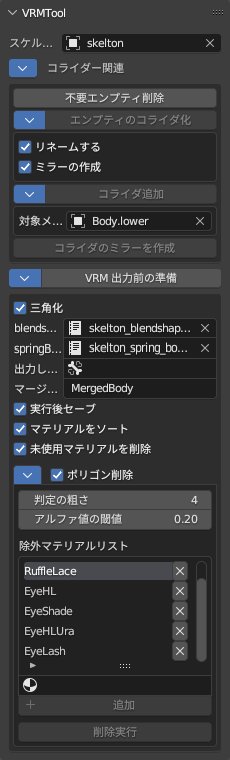
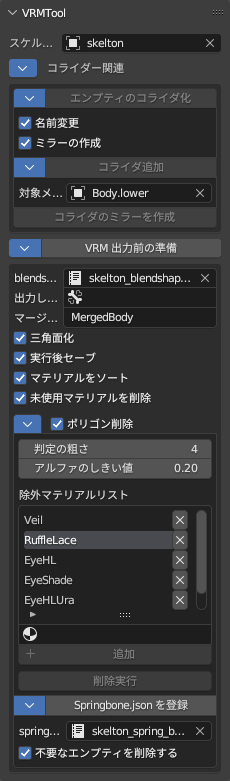
README.md に新機能の説明などを追加して更新

diff --git a/README.md b/README.md
@@ -19,6 +19,22 @@ Blender 3.1 以降用。
 
 https://user-images.githubusercontent.com/108515309/176989212-1da4d9cf-2309-4fea-8d16-3d5cd5a5e507.mp4
 
+### EditTool / 中心を追加して三角化
+選択した面の中心に頂点を追加し、そこから各頂点を結んで三角化します。  
+中心の計算方法をいくつか選べます。  
+|計算方法|解説|
+|----|----|
+|辺を考慮|Blender標準の計算方法です<br>辺を頂点で分割しているような場合でも良い感じの中心になります|
+|面積中心|三角形の面積を考慮に入れて中心を計算します|
+|幾何中心|単純に各頂点の座標の平均を中心とします|
+
+トポロジを整える時に便利です。  
+
+面白い形状も作れるかも？  
+![TriangulateWithCenter_cube](/images/TriangulateWithCenter_cube.jpg)
+![TriangulateWithCenter_cube2](/images/TriangulateWithCenter_cube2.jpg)
+![TriangulateWithCenter_torus](/images/TriangulateWithCenter_torus.jpg)
+
 ### EditTool / 近似球の追加
 選択した頂点に近似した球オブジェクトを追加します。  
 頂点は 4 つ以上選択している必要があります。  
@@ -34,6 +50,11 @@ https://programming-surgeon.com/script/sphere-fit/
 コライダの調整をする時に便利です。
 
 ![ConvertEmptyAndSphere](/images/ConvertEmptyAndSphere.png)
+
+### EditTool / 選択インスタンスの実体化
+Blender では、コレクションを中身のアーマチュアごとインスタンスとして複製することができ、複数のインスタンスで同じアクションを再生することができます。  
+しかし、エクスポートなどのために「適用」→「インスタンスの実体化」をするとアクションとのリンクが途切れてしまいます。  
+この「選択インスタンスの実体化」では、アクションのリンクがなるべく途切れないように実体化することができます。  
 
 ## MaterialTool
 ![MaterialTool](/images/Panel_MaterialTool.png)
@@ -65,9 +86,8 @@ https://programming-surgeon.com/script/sphere-fit/
 ## VRMTool
 ![VRMTool](/images/Panel_VRMTool.png)
 
-### VRMTool / コライダー関係 / 不要エンプティ削除
-指定したアーマチュアの、UI に表示されない隠れたエンプティを削除します。  
-通常は使うことはありません。  
+### VRMTool / スケルトン
+VRM モデルのスケルトンオブジェクトを指定します。  
 
 ### VRMTool / コライダー関係 / エンプティのコライダ化
 選択したエンプティを、アクティブなアーマチュアのアクティブなボーンのコライダとして設定します。  
@@ -80,7 +100,7 @@ https://programming-surgeon.com/script/sphere-fit/
 親が「Hips」などの、左右のないボーンの場合には、対称な位置にコライダが作られます。  
 
 ### VRMTool / コライダ追加
-ポーズモード時、アクティブなボーンに対して、指定したメッシュに沿うようなサイズの Empty 球を追加します。  
+ポーズモード時、選択したボーンに対して、指定したメッシュに沿うようなサイズの Empty 球を追加します。  
 具体的には、ボーンに沿った方向で一定間隔に、ボーンを軸として放射状にレイを飛ばし、メッシュとの交点を近似するような球をコライダとして作成します。  
 実行後、プロパティパネルで調整ができます。    
 
@@ -100,12 +120,9 @@ https://programming-surgeon.com/script/sphere-fit/
 ポーズアセットを使って表情を付ける仕組みとして設計されています。  
 ポーズアセットを使うことでシェイプキーを使わなくて済むので、エクスポート後にモデルを修正するといった手戻りに強くなります。  
 [blendshape_group.json のサンプル](/sample/blendshape_group.json)
-[spring_bone.json のサンプル](/sample/spring_bone.json)
 
 「VRM 出力前の準備」ボタンを押すと、具体的には、指定したアーマチュアに対して以下の操作を行います。(オプションでオンオフできる箇所もあります)  
 
-1. VRM Addon for Blender の BlendShape の情報を削除する
-1. spring_bone.json を指定した場合、VRM Addon for Blender の SpringBone の情報を削除する
 1. 透明なポリゴンを削除する。具体的にやっていることは後述の「ポリゴン削除」を参照
 1. blendshape_group.json の内容に応じて、メッシュを一つにまとめる。
 具体的には、binds の mesh で指定した名前の Collection を探し、Collection に含まれるメッシュのモディファイアを適用した後、一つにする
@@ -115,8 +132,8 @@ https://programming-surgeon.com/script/sphere-fit/
 1. ウェイトのクリーンアップを行う
 1. 未使用マテリアルを削除する
 1. MaterialTool パネルの「マテリアル順指定リスト」を参照し、マテリアルのソートを行う
-1. blendshape_group.json の内容をアーマチュアに登録する
-1. spring_bone.json の内容に従い、コライダを登録し、不要なエンプティがあれば削除する
+1. blendshape_group.json の内容を VRM Addon for Blender の BlendShape の情報として設定する
+1. spring_bone.json の内容を VRM Addon for Blender の SpringBone の情報として設定する
 1. *.export.blend として名前を付けて保存する
 
 ### VRMTool / ポリゴン削除
@@ -132,8 +149,22 @@ https://programming-surgeon.com/script/sphere-fit/
 
 https://github.com/DaDaDan3D/DDDTools/assets/108515309/8466814a-9545-4ed7-897a-51636ee4881f
 
+### VRMTool / Springbone.json を登録
+SpringBone の設定をした JSON テキストを元に、VRM Addon for Blender の spring bone とコライダの情報を登録します。  
+[spring_bone.json のサンプル](/sample/spring_bone.json)
+「不要なエンプティを削除する」を設定すると、UI に表示されない隠れたエンプティを削除します。
+通常はチェックを外さないでください。  
+
 ## BoneTool
 ![BoneTool](/images/Panel_BoneTool.png)
+
+### BoneTool / 祖先に近いボーンの選択
+選択中のボーンのうち、最も根っこに近いボーンだけを選択します。  
+spring_bone.json への登録をする時に便利です。
+
+### BoneTool / 選択中の骨を列挙
+選択中のボーンの名前を情報に表示し、クリップボードにもコピーします。  
+spring_bone.json への登録をする時に便利です。
 
 ### BoneTool / 子ボーンをリネーム
 アクティブなボーンの子供のボーンの名前を、番号付きでリネームします。  
@@ -230,6 +261,21 @@ VRM Addon for Blender の過去のバージョンの MToon_unversioned を、新
 一覧で項目を選び、下の「値をコピー」ボタンを押すと、選択した項目の内容を一覧すべてにコピーします。  
 
 ![ShaderToolSample](/images/Blender_EditMaterialInputNodes.png)
+
+## TextTool
+![TextTool](/images/Panel_TextTool.png)
+
+### TextTool / JSON のチェック
+現在開いているテキストを JSON フォーマットとしてチェックし、結果を表示します。  
+
+## 翻訳について
+I18N フォルダの i18n.csv が翻訳データベースになっています。  
+もし他の言語を追加したい場合は、以下の手順で追加できます。  
+1. I18N/i18n.csv に新しい言語列を追加する(例: it_IT)
+1. key の列に対応する翻訳を、追加した言語列に追加していく
+1. DDDTools フォルダの下で 'python I18N/build_dictionary.py' を実行する(dictionary.py ができる)
+
+編集する際は、key 列を変更しないように注意してください。  
 
 ## 免責
 このアドオンを使用して生じたいかなる損害に対しても、当方は責任を負いません。  
